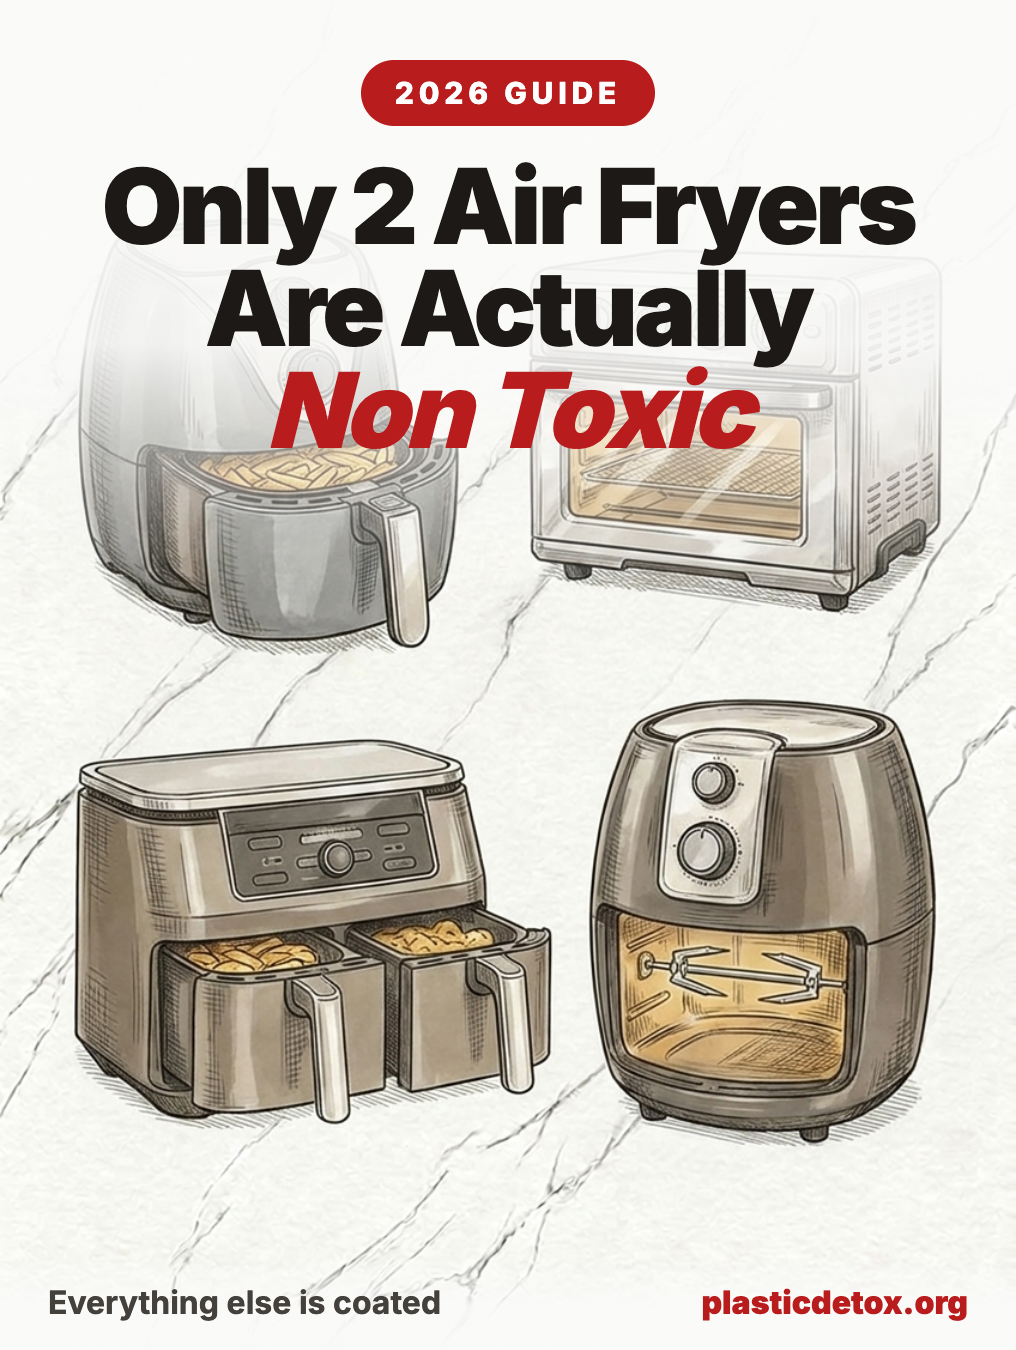
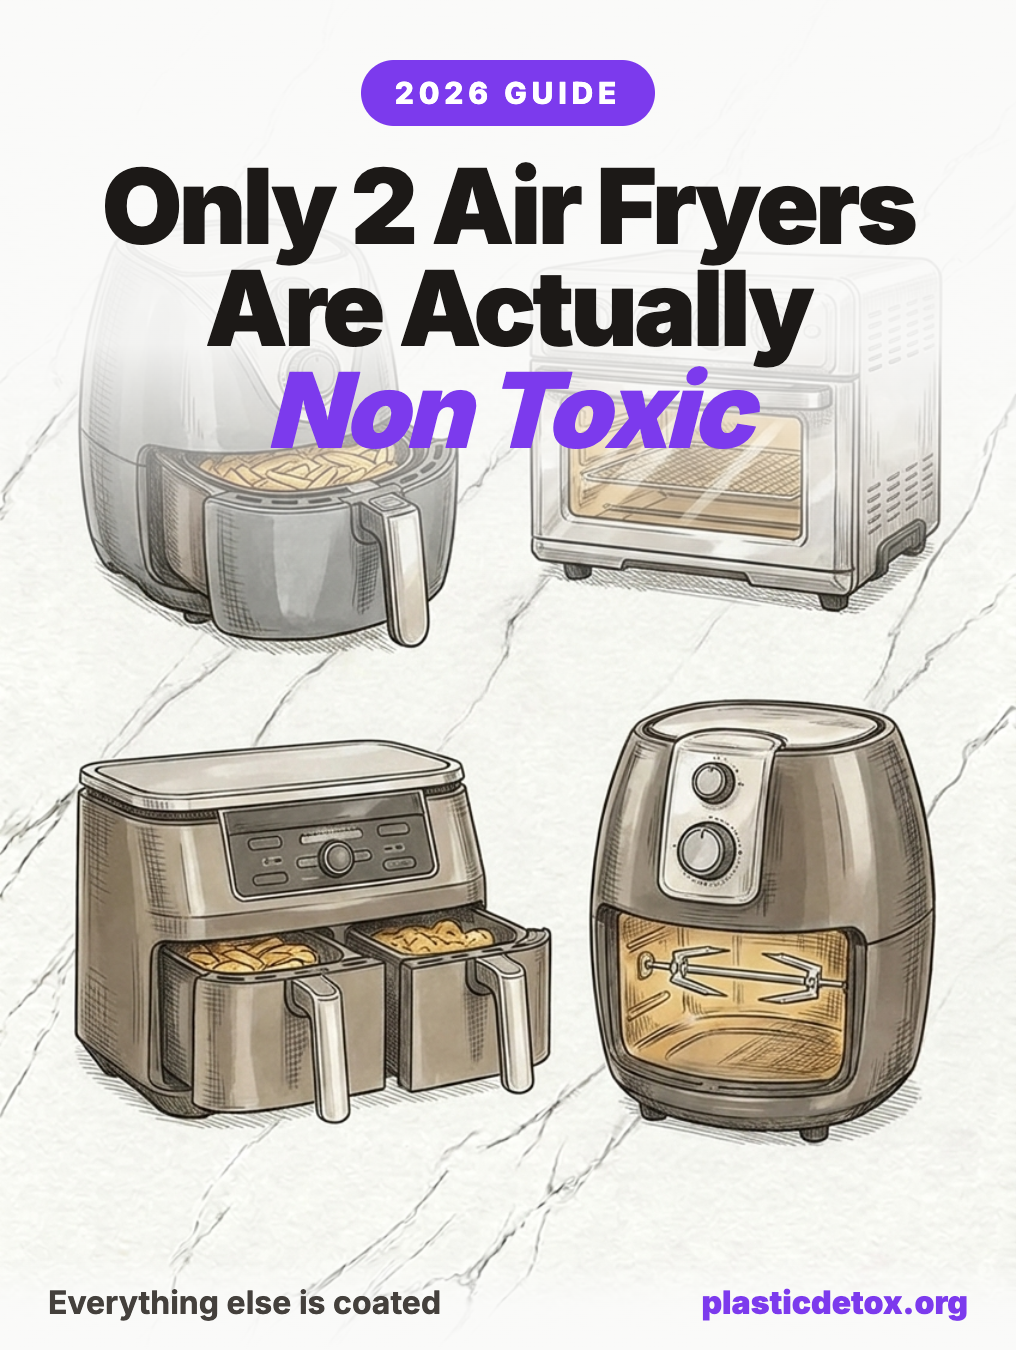
Air fryer hero: use standard purple accent (#7c3aed), not red

Changed region(s): [[0.2441, 0.2489, 0.7628, 0.3422], [0.3356, 0.0311, 0.6407, 0.0933], [0.6713, 0.9333, 0.9459, 0.9956]]

diff --git a/images/best-non-toxic-air-fryers-article-hero.html b/images/best-non-toxic-air-fryers-article-hero.html
@@ -45,7 +45,7 @@
       text-transform: uppercase;
       letter-spacing: 0.16em;
       color: #fff;
-      background: #b91c1c;
+      background: #7c3aed;
       padding: 15px 34px;
       border-radius: 100px;
       margin-bottom: 30px;
@@ -57,7 +57,7 @@
       line-height: 0.98;
       letter-spacing: -0.035em;
     }
-    .top-overlay h1 .accent { color: #b91c1c; font-style: italic; }
+    .top-overlay h1 .accent { color: #7c3aed; font-style: italic; }
     .footer {
       position: absolute;
       bottom: 0; left: 0; right: 0;
@@ -72,7 +72,7 @@
       );
     }
     .footer-stat { font-size: 32px; font-weight: 700; color: #44403c; }
-    .footer-url { font-size: 32px; font-weight: 900; color: #b91c1c; }
+    .footer-url { font-size: 32px; font-weight: 900; color: #7c3aed; }
   </style>
 </head>
 <body>
